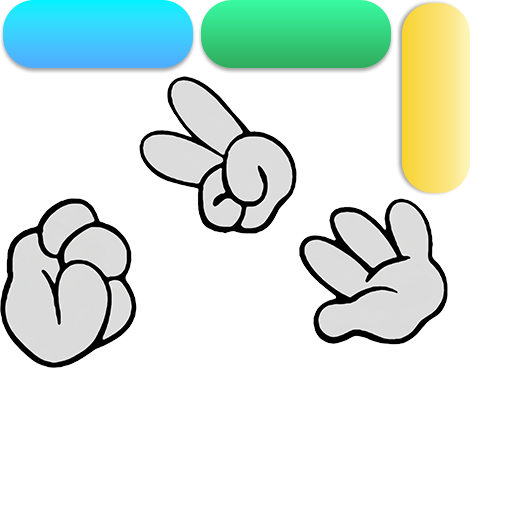
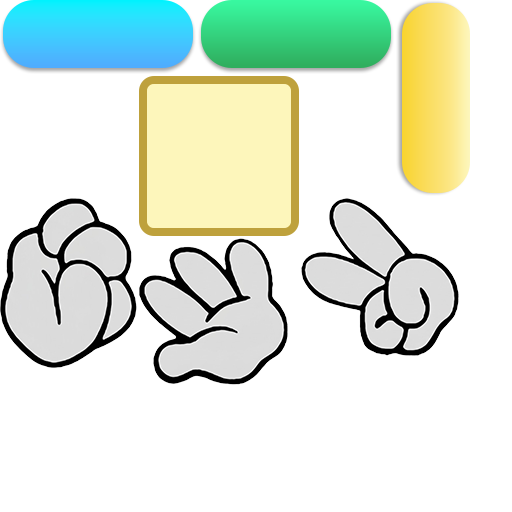
feat(fgui): 添加顶部组件CompTop及头像组件CompHead
- 新增common包内头像组件CompHead及相关图片资源
- 在lobby包中添加CompTop组件并引入CompHead组件
- 修改LobbyView添加CompTop组件的展示位置和引用
- 新增FGUICompTop类实现CompTop组件的逻辑封装
- 更新相关package文件导出新组件资源
- 修改FGUILobbyView脚本，集成FGUICompTop组件实例及逻辑绑定

Changed region(s): [[0.25, 0.125, 0.9062, 0.75]]

diff --git a/assets/scripts/fgui/lobby/FGUICompTop.ts b/assets/scripts/fgui/lobby/FGUICompTop.ts
@@ -1,0 +1,46 @@
+/** This is an automatically generated class by FairyGUI. Please do not modify it. **/
+
+import { assetManager, AssetManager } from "cc";
+import * as fgui from "fairygui-cc";
+
+export default class FGUICompTop extends fgui.GComponent {
+
+	public UI_COMP_HEAD:fgui.GComponent;
+	public static URL:string = "ui://gv22rev3cveva";
+
+	public static packageName:string = "lobby";
+
+	public static instance:any | null = null;
+
+	public static showView(params?:any):void {
+		if(FGUICompTop.instance) {
+			console.log("allready show");
+			return;
+		}
+		const bundle = assetManager.getBundle("fgui") as AssetManager.Bundle;
+		fgui.UIPackage.loadPackage(bundle, this.packageName, (error, pkg)=> {
+
+			if(error){console.log("loadPackage error", error);return;}
+			const view = fgui.UIPackage.createObject("lobby", "CompTop");
+
+			view.makeFullScreen();
+			FGUICompTop.instance = view;
+			fgui.GRoot.inst.addChild(view);
+			view.show && view.show(params);
+		}
+		);
+	}
+
+	public static hideView():void {
+		FGUICompTop.instance && FGUICompTop.instance.dispose();
+		FGUICompTop.instance = null;
+	}
+	public static createInstance():FGUICompTop {
+		return <FGUICompTop>(fgui.UIPackage.createObject("lobby", "CompTop"));
+	}
+
+	protected onConstruct():void {
+		this.UI_COMP_HEAD = <fgui.GComponent>(this.getChildAt(0));
+	}
+}
+fgui.UIObjectFactory.setExtension(FGUICompTop.URL, FGUICompTop);

diff --git a/assets/scripts/fgui/lobby/FGUILobbyView.ts b/assets/scripts/fgui/lobby/FGUILobbyView.ts
@@ -3,6 +3,7 @@
 import { assetManager, AssetManager } from "cc";
 import * as fgui from "fairygui-cc";
 import FGUIBgActView from "./FGUIBgActView";
+import FGUICompTop from "./FGUICompTop";
 
 export default class FGUILobbyView extends fgui.GComponent {
 
@@ -10,6 +11,7 @@ export default class FGUILobbyView extends fgui.GComponent {
 	public UI_COMP_BG_ACT:FGUIBgActView;
 	public UI_BTN_MATCH_ROOM:fgui.GButton;
 	public UI_BTN_PRIVATE_ROOM:fgui.GButton;
+	public UI_COMP_TOP:FGUICompTop;
 	public static URL:string = "ui://gv22rev3sc722";
 
 	public static packageName:string = "lobby";
@@ -50,6 +52,7 @@ export default class FGUILobbyView extends fgui.GComponent {
 		this.UI_BTN_MATCH_ROOM.onClick(this.onBtnMatchRoom, this);
 		this.UI_BTN_PRIVATE_ROOM = <fgui.GButton>(this.getChildAt(3));
 		this.UI_BTN_PRIVATE_ROOM.onClick(this.onBtnPrivateRoom, this);
+		this.UI_COMP_TOP = <FGUICompTop>(this.getChildAt(4));
 	}
 	onBtnMatchRoom():void{};
 	onBtnPrivateRoom():void{};
